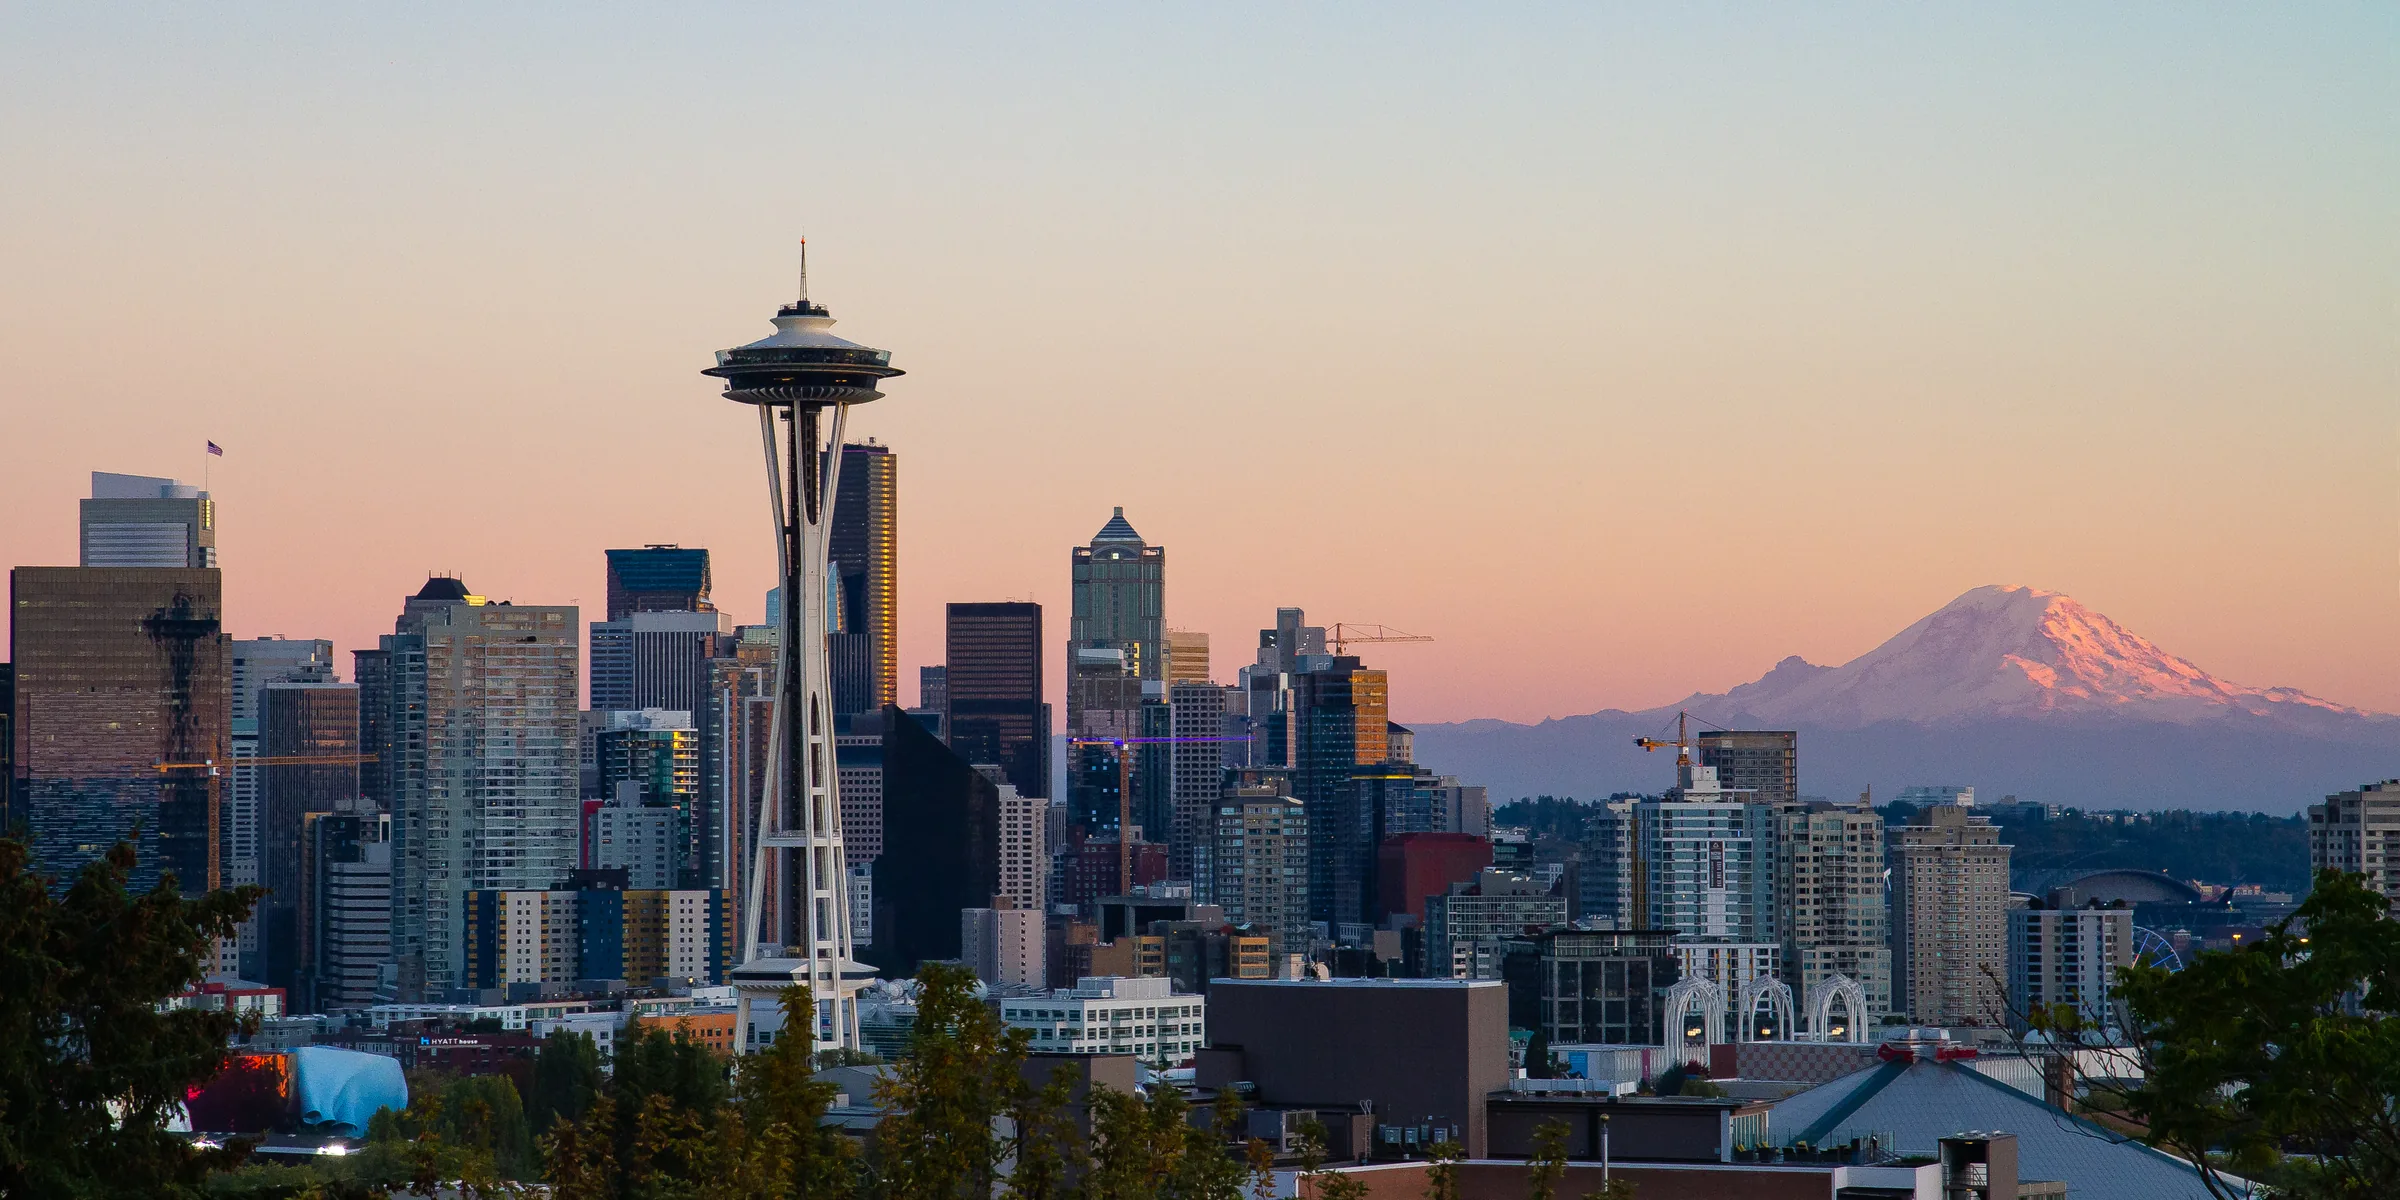
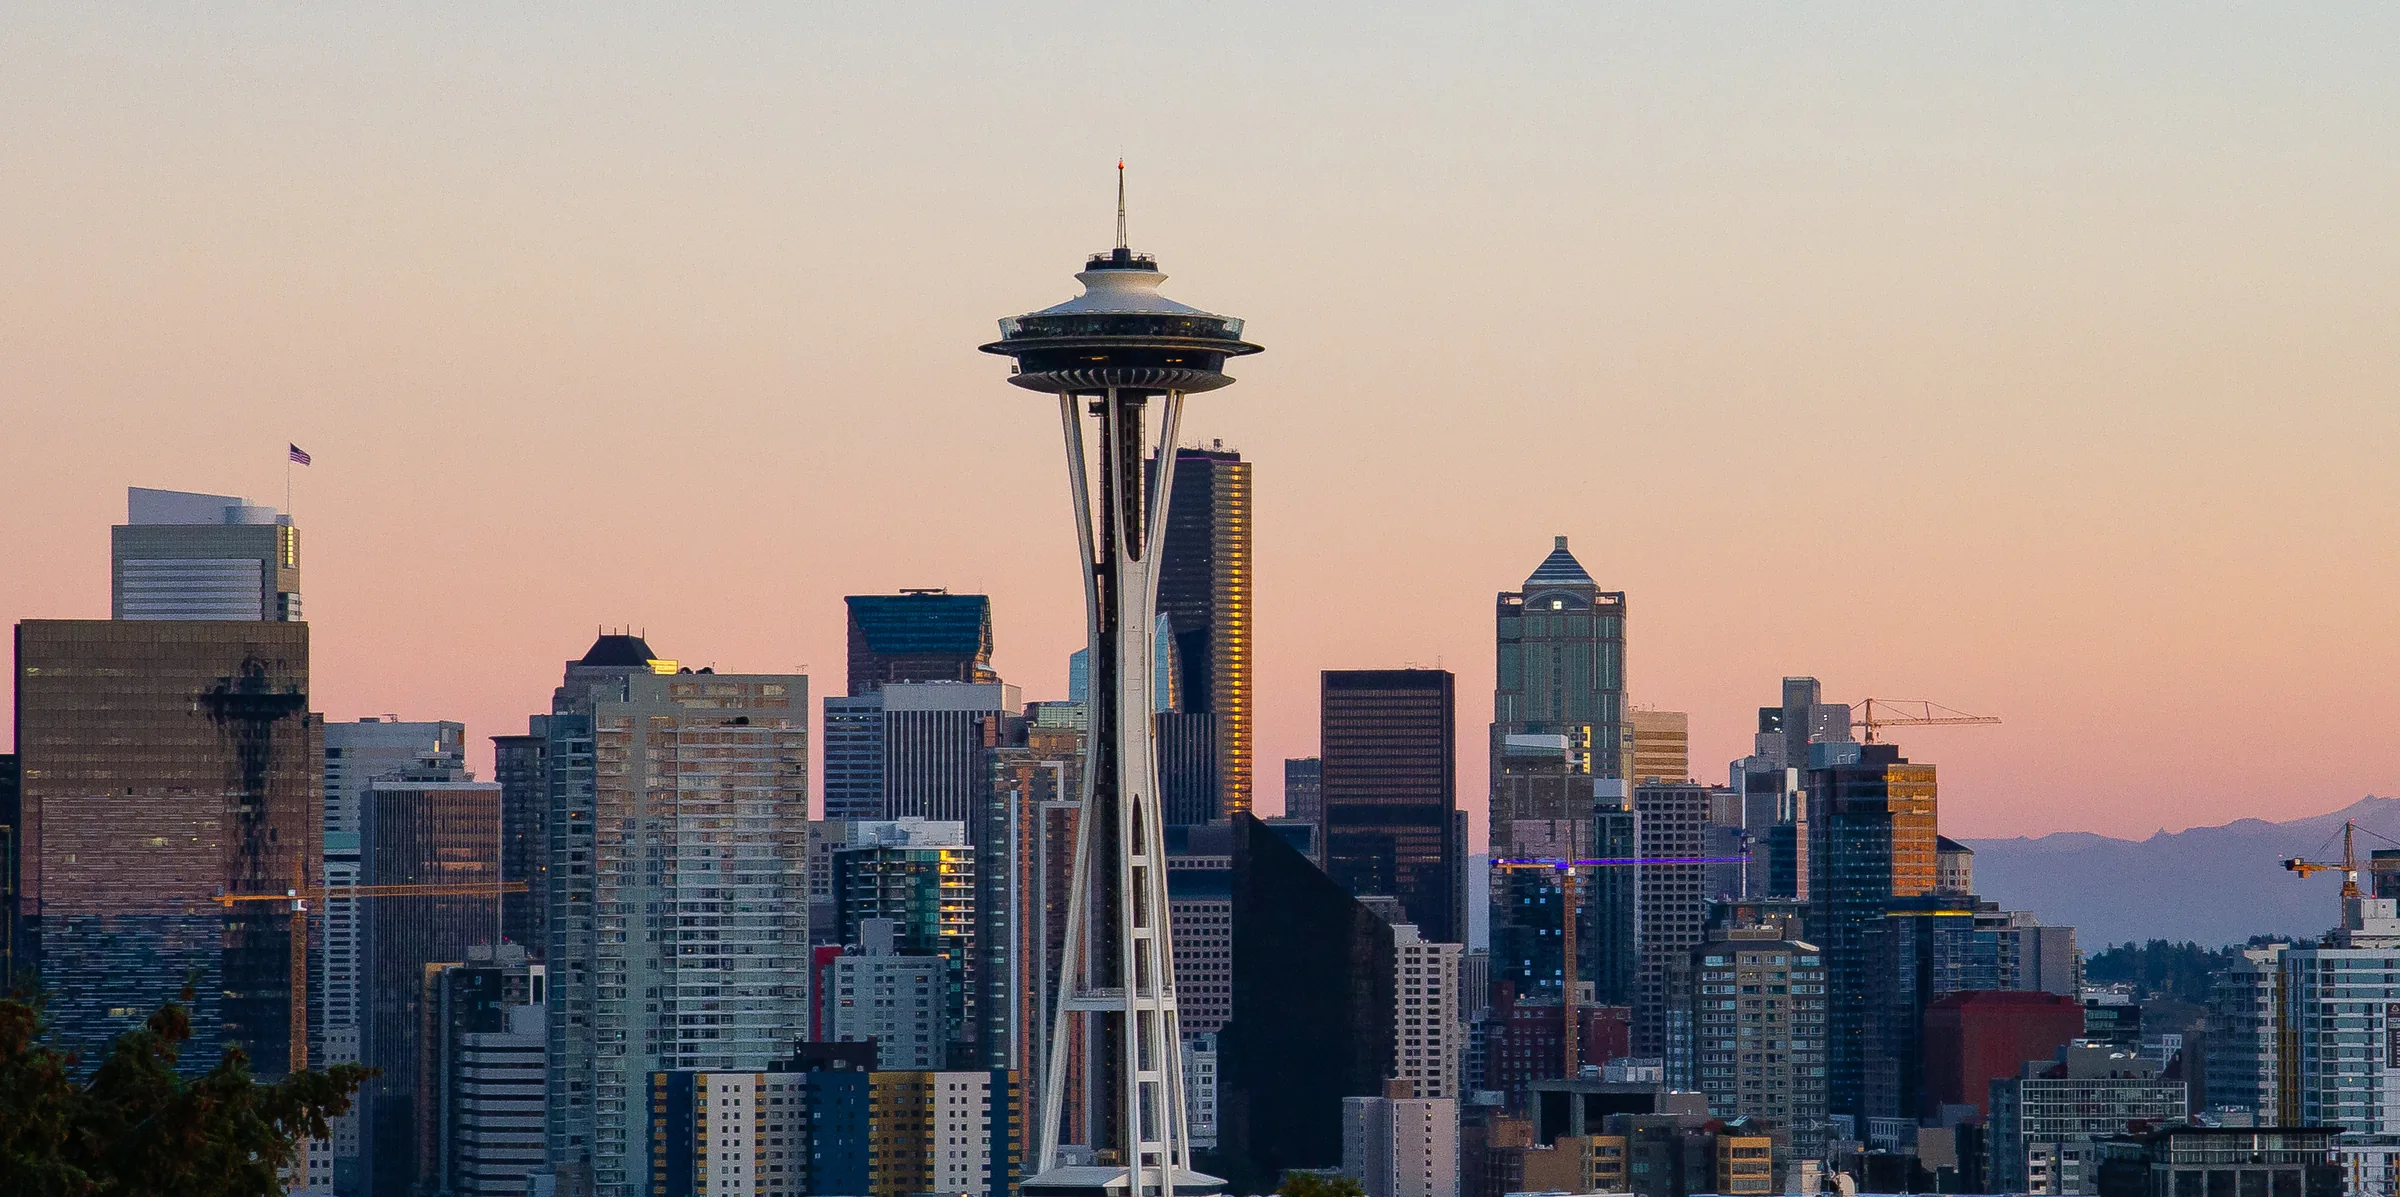
Retune home skyline: night-1 photo, tighter alignment, 2/3 width
Switch the night image to photo-night-1 (Tiffany Von Arnim, CC BY 2.0 -> see
note) whose Kerry Park vantage matches the day photo more closely, and realign
via a homography from 11 hand-refined anchor pairs spread across the skyline
(vs the earlier 6). Registration is visibly tighter across the whole downtown,
not just the Space Needle. Because night-1 is a tighter shot, both images are
cropped to the shared covered region (no black edges) -- this drops Mt. Rainier
and the low foreground, focusing the frame on the Space Needle + downtown. Home
split changed to ~1/3 banner / ~2/3 image so the skyline reads larger.

diff --git a/src/styles/home.css.ts b/src/styles/home.css.ts
@@ -75,7 +75,7 @@ export const heading3 = style([bannerMargin, typography.h3, { fontFamily: "monos
 // "dark unless the OS prefers light" default; the explicit `data-theme` selectors (higher
 // specificity) win once the no-flash script runs. Both photos are CC0 / public domain.
 export const image = style({
-  flexGrow: 1,
+  flexGrow: 2,
   flexShrink: 1,
   flexBasis: 0,
   backgroundColor: vars.palette.primary.main,